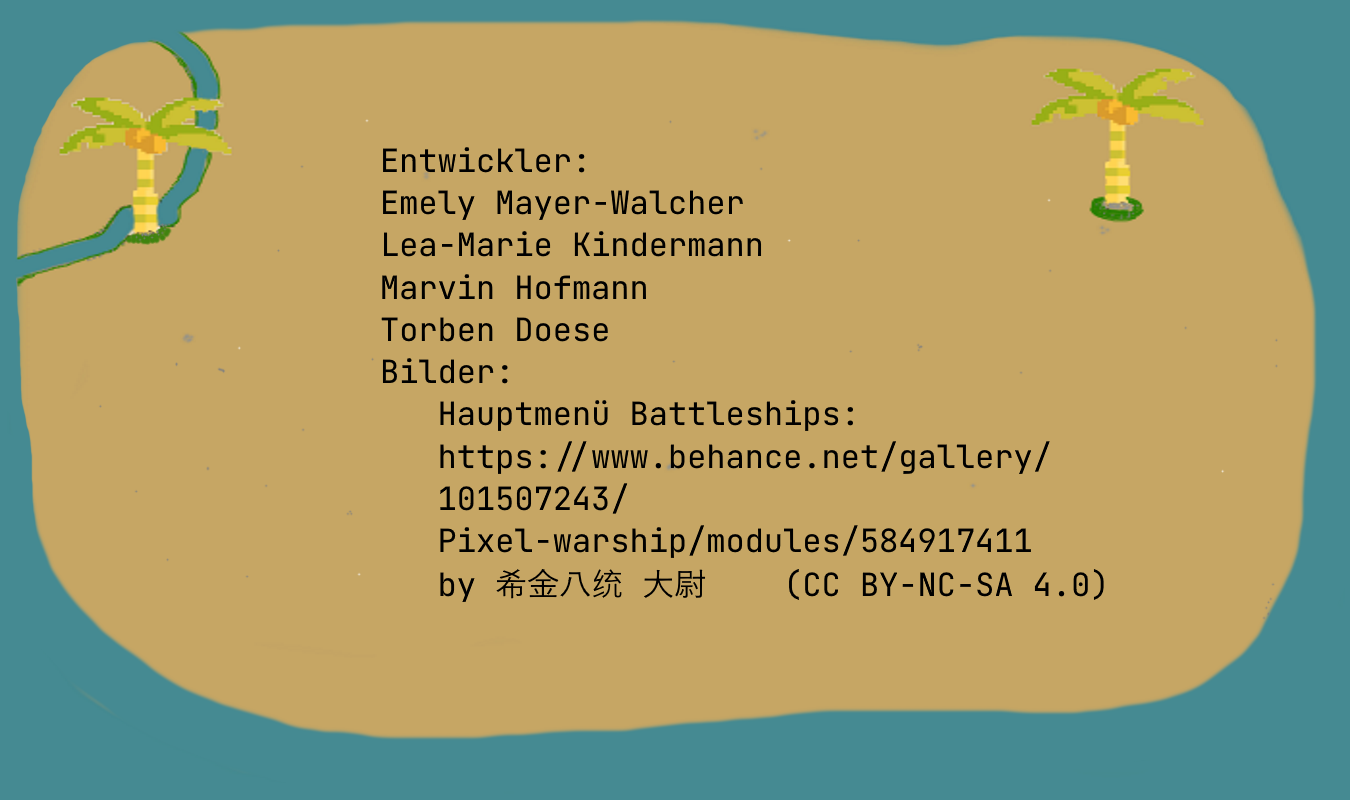
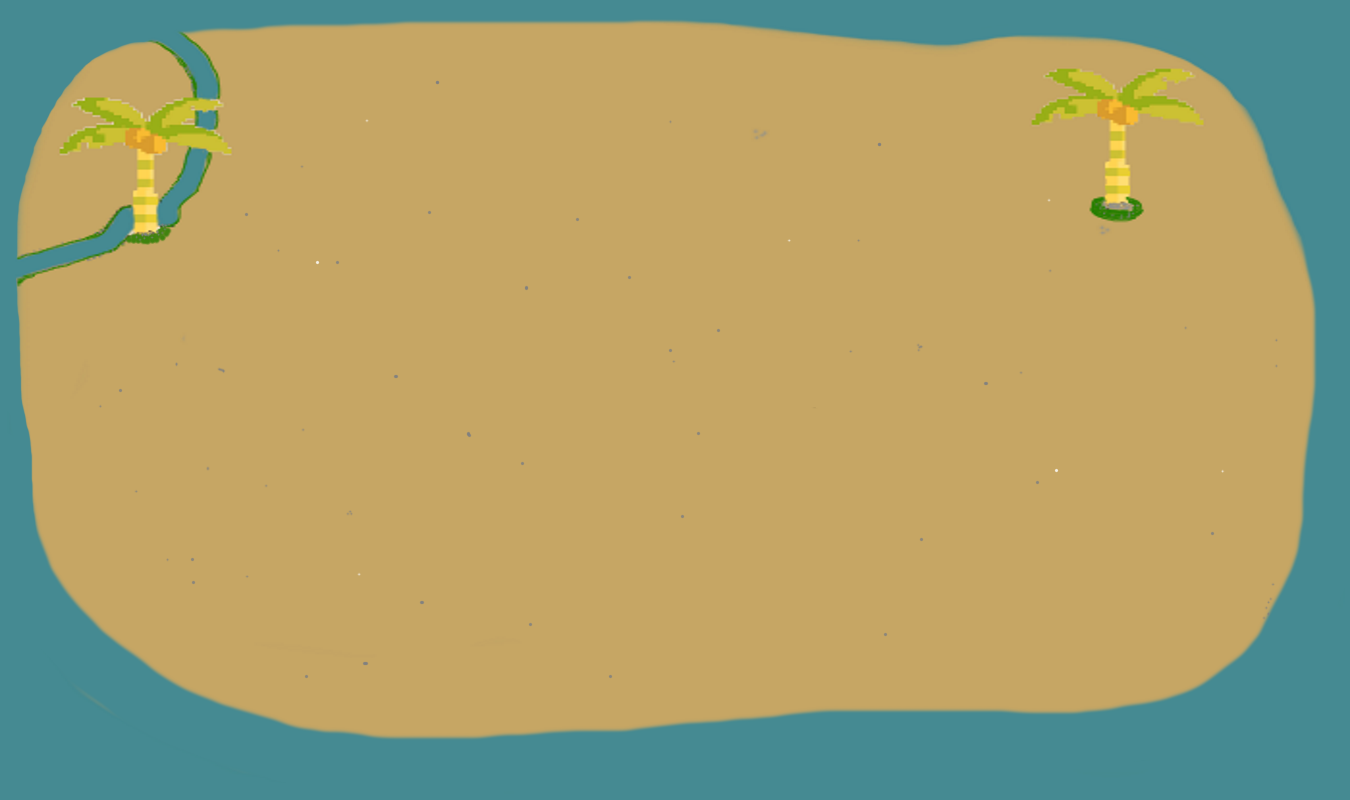
-- bg einstellung

Changed region(s): [[0.3111, 0.5625, 0.8089, 0.75], [0.28, 0.1875, 0.56, 0.375], [0.28, 0.4062, 0.6222, 0.5312]]

diff --git a/SchiffeVersenken/src/GUI/style.css b/SchiffeVersenken/src/GUI/style.css
@@ -28,10 +28,7 @@ button:focus { outline: none; }
 
 
 .bgAnleitung{
-    -fx-background-image: url("../Images/pu.png");
-    -fx-background-position: center center;
-    -fx-background-repeat: stretch; 
-    -fx-background-size: 50%;
+   
 }
 
 .buttonS{
@@ -191,4 +188,7 @@ button:focus { outline: none; }
     -fx-background-image: url("../Images/boot2FullHc.png");   
     -fx-background-size: 100% 100%;
     -fx-background-repeat: no-repeat
+}
+.textArea{
+    text-area-background: green;
 }
